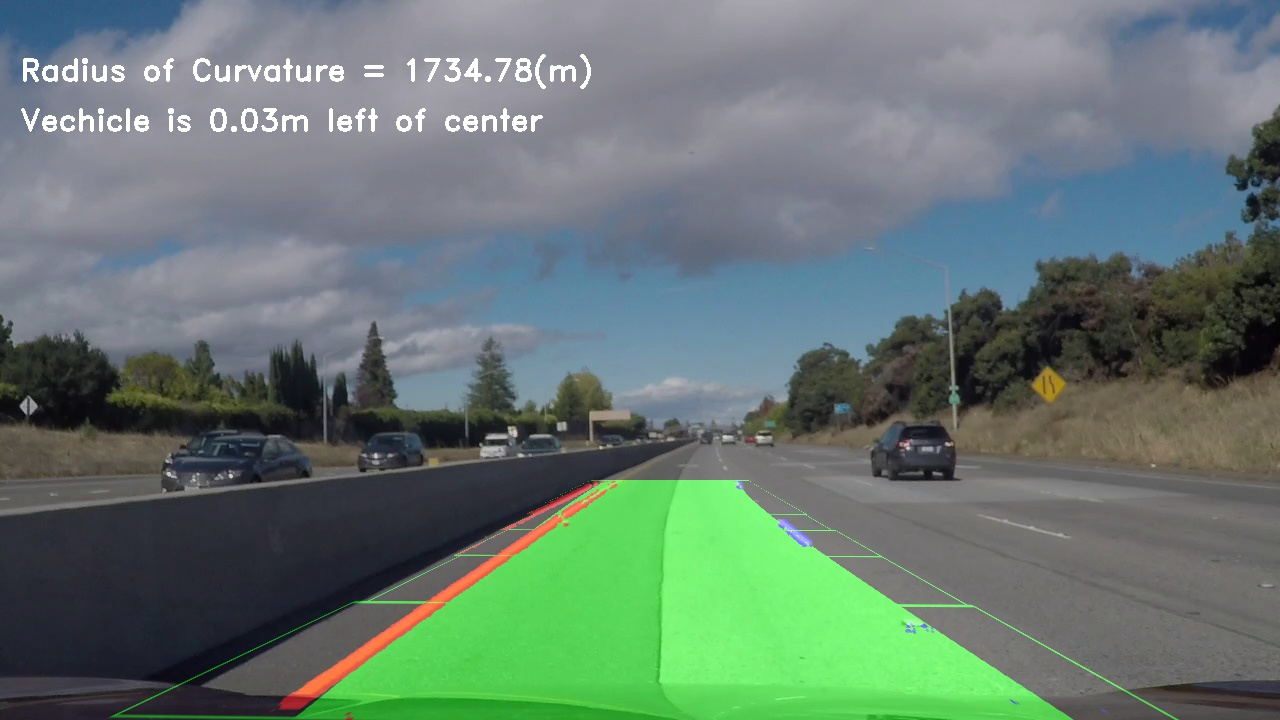
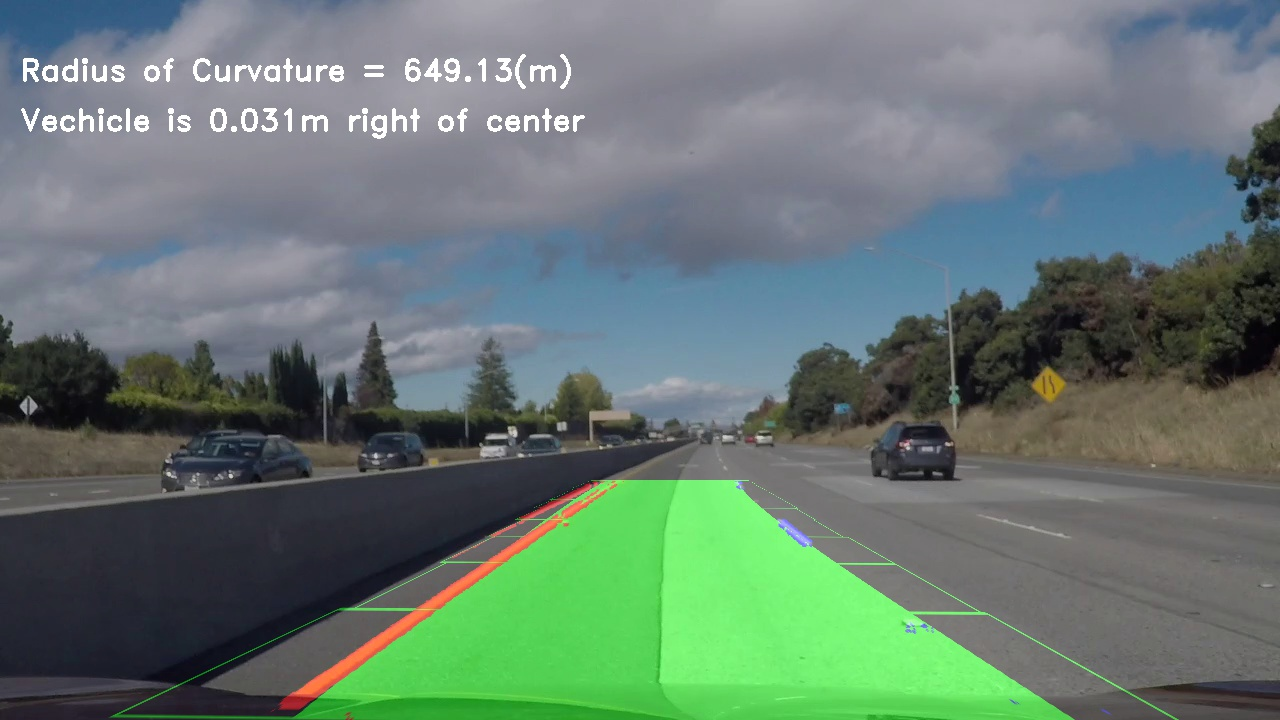
add output_challenge_images

diff --git a/py_code/image_main.py b/py_code/image_main.py
@@ -12,15 +12,15 @@ __date__ = '2018/10'
 
 
 find_lane = FindLane(ym_per_pix=30/720, xm_per_pix=3.7/700)
-# for challenge
-# src = np.float32([[730, 480], [1050, 730], [265, 720], [630, 480]])
 dst = np.float32([[900, 0], [900, 720], [320, 720], [320, 0]])
 src = np.float32([[685, 450], [1120, 720], [190, 720], [595, 450]])
+## for challenge ##
+# src = np.float32([[730, 480], [1050, 730], [265, 720], [630, 480]])
 rows, cols, channel =720, 1280, 3
 height = rows
+vertices = np.array([[(0,height) ,(0, 0), (1200, 0), (1200, height)]], dtype=np.int32)
 ## for challenge ##
 # vertices = np.array([[(200,rows) ,(650, 430), (750, 430), (1130, rows)]], dtype=np.int32)
-vertices = np.array([[(0,height) ,(0, 0), (1200, 0), (1200, height)]], dtype=np.int32)
 warped_size = (cols, rows)
 find_lane.createWarp(src, dst, warped_size, vertices)
 find_lane.createColorGrad(color_space='RGB')
@@ -32,16 +32,16 @@ find_lane.createColorGrad(color_space='RGB')
 # plt.show()
 
 
-for im_name in os.listdir('../test_images'):
-    path = os.path.join('../test_images', im_name)
+for im_name in os.listdir('../test_challenge_images'):
+    path = os.path.join('../test_challenge_images', im_name)
     img = mpimg.imread(path)
     print(img.shape)
     find_lane.left_fit = None
     find_lane.right_fit = None
     out_img = find_lane.pipeline(img)
-    res = find_lane.warp.draw_region(img)
+    res = find_lane.warp.drawRegion(img)
     plt.figure(figsize=(12, 8))
     plt.imshow(res)
     plt.show()
-    save_path = os.path.join('../test_images_output', im_name)
+    save_path = os.path.join('../test_challenge_images_output', im_name)
     plt.imsave(save_path, out_img)
